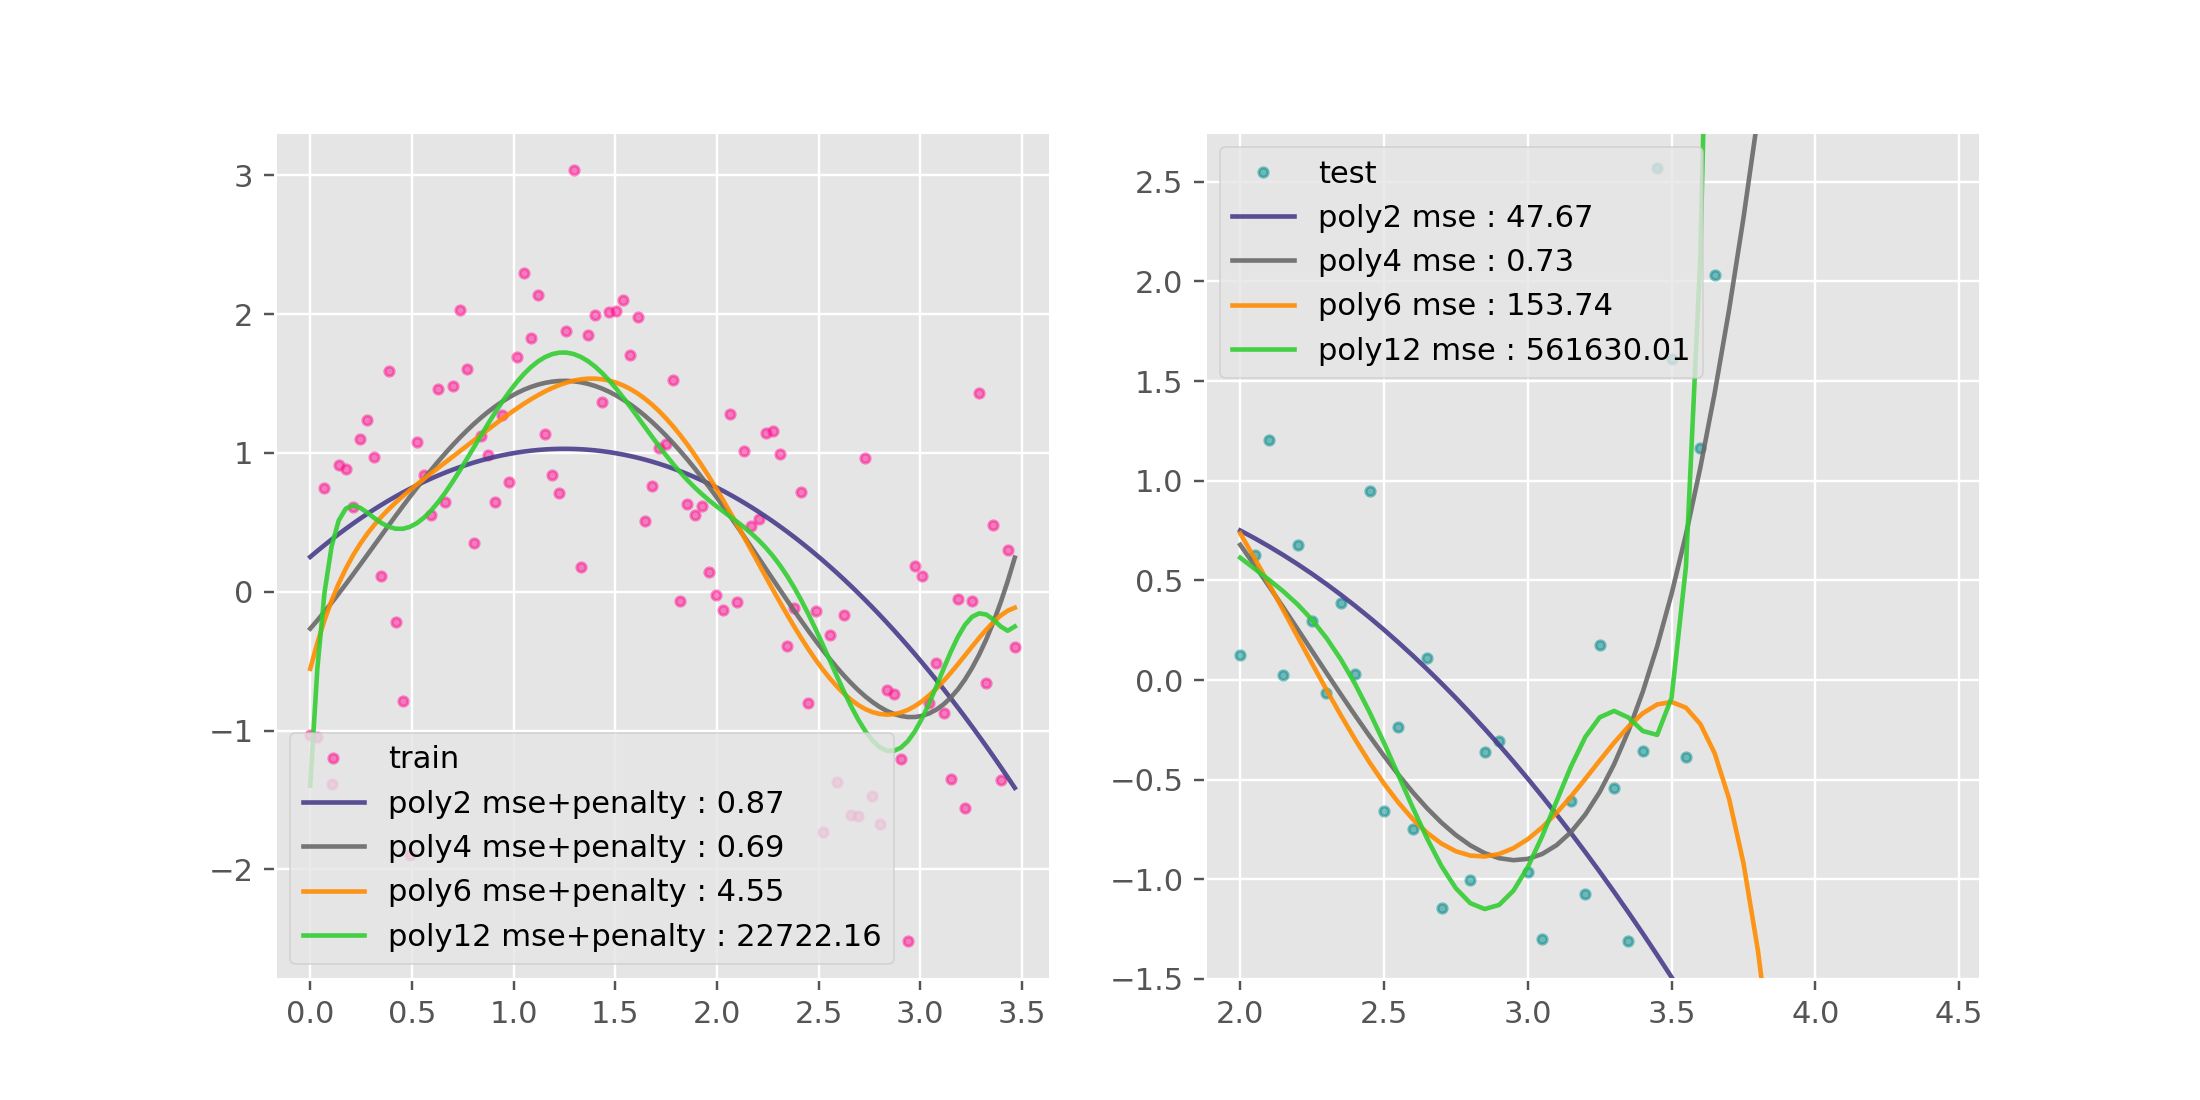
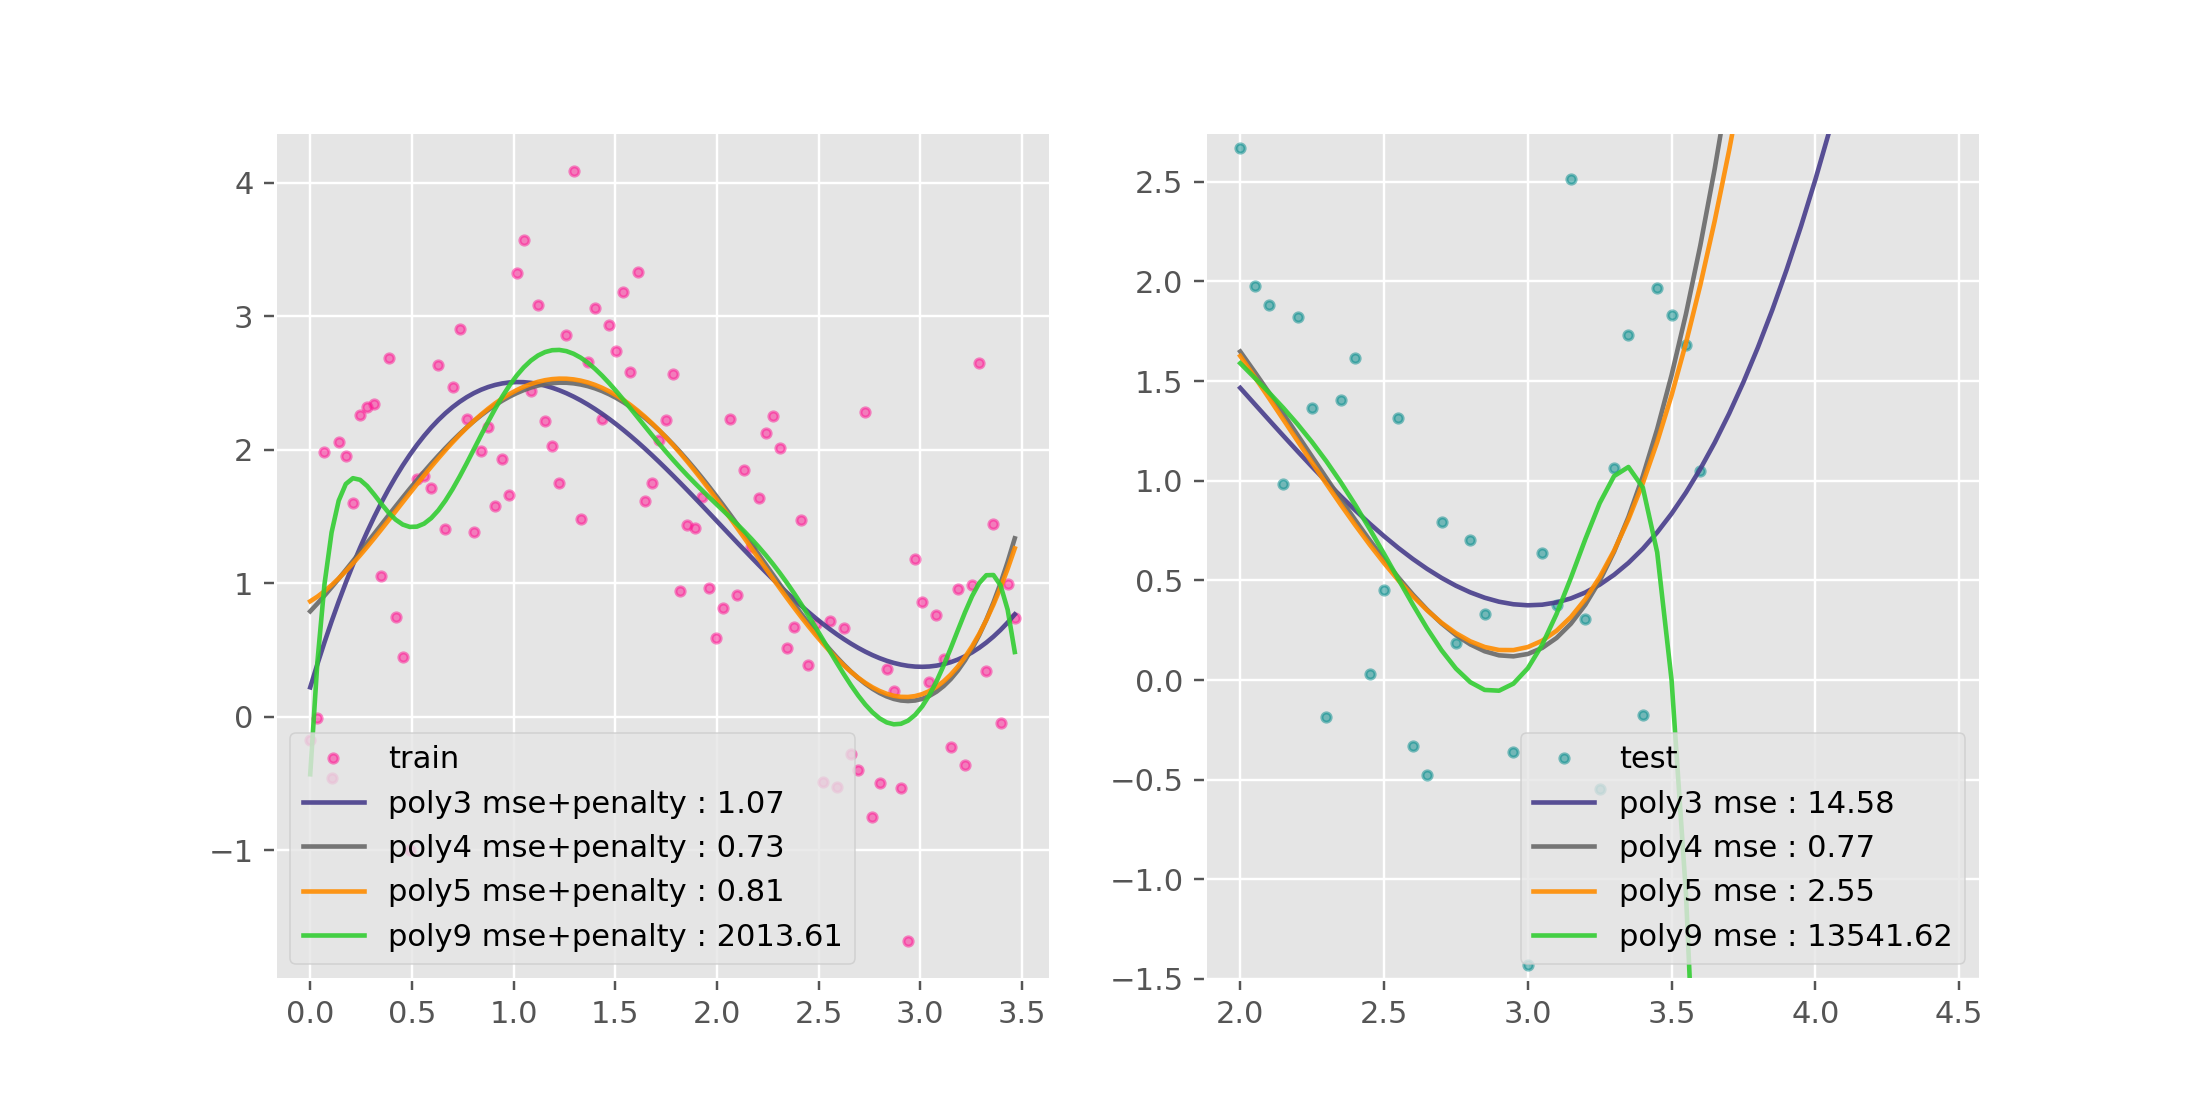
.

diff --git a/bias-variance/polynomial-fit.py b/bias-variance/polynomial-fit.py
@@ -22,11 +22,13 @@ warnings.simplefilter(action='ignore', category=FutureWarning)
 
 plt.style.use('ggplot')
 
+c_true = [0.3, -1.5, 1.2, 1.5, 0]
+
 x = np.linspace(0, 3.5, 100, endpoint=False)
-y = np.polyval([0.3, -1.5, 1.2, 1.5, 0], x)
+y = np.polyval(c_true, x)
 
 x_h = np.linspace(2, 4.5, 50, endpoint=False)
-y_h = np.polyval([0.3, -1.5, 1.2, 1.5, 0], x_h)
+y_h = np.polyval(c_true, x_h)
 
 fig, ax = plt.subplots(figsize=(8, 8))
 ax.plot(x, y, '.', color='deeppink', markeredgecolor=None,
@@ -39,8 +41,8 @@ ax.legend()
 fig.show()
 fig.savefig('./bias-variance/poly.png', dpi=220)
 
-y += np.random.normal(0, 0.7, len(y))
-y_h += np.random.normal(0, 0.7, len(y_h))
+y += np.random.normal(0, 0.7, len(y)) + np.random.normal(1, 0.2, len(y))
+y_h += np.random.normal(0, 0.7, len(y_h)) + np.random.normal(1, 0.2, len(y_h))
 
 fig, ax = plt.subplots(figsize=(8, 8))
 ax.plot(x, y, '.', color='deeppink', markeredgecolor=None,
@@ -54,7 +56,7 @@ fig.show()
 fig.savefig('./bias-variance/poly-w-gauss.png', dpi=220)
 
 # polynomial fitting
-poly = [2, 4, 6, 12]
+poly = [3, 4, 5, 9]
 col = ['darkslateblue', 'dimgray', 'darkorange', 'limegreen']
 
 fig, ax = plt.subplots(1, 2, figsize=(10, 5))
@@ -80,9 +82,6 @@ fig.show()
 fig.savefig('./bias-variance/polyfit.png', dpi=220)
 
 # bayesian view
-poly = [2, 4, 6, 12]
-col = ['darkslateblue', 'dimgray', 'darkorange', 'limegreen']
-
 fig, ax = plt.subplots(1, 2, figsize=(10, 5))
 axes = ax.ravel()
 axes[0].plot(x, y, '.', color='deeppink', markeredgecolor=None, alpha=0.5,
@@ -108,12 +107,12 @@ fig.show()
 fig.savefig('./bias-variance/polyfit-w-penalty.png', dpi=220)
 
 # committee
-bs = 200
-poly = [2, 4, 6, 12]
-col = ['darkslateblue', 'dimgray', 'darkorange', 'limegreen']
+n_boot = 200
+# poly = [3, 4, 5, 9]
+poly = [3]
 np.random.seed(2019)
 for p, c in zip(poly, col):
-    fig, ax = plt.subplots(1, 2, figsize=(10, 5))
+    fig, ax = plt.subplots(1, 2, figsize=(10, 7))
     axes = ax.ravel()
     axes[0].plot(x, y,
                  '.', color='deeppink', markeredgecolor=None, alpha=0.5,
@@ -122,17 +121,36 @@ for p, c in zip(poly, col):
                  '.', color='darkcyan', markeredgecolor=None, alpha=0.5,
                  label='test')
     y_ave_tr = np.zeros(len(x))
+    y_tr_df = pd.DataFrame({'y_train_true': np.polyval(c_true, x)})
     y_ave_te = np.zeros(len(x_h))
-    for _ in range(bs):
+    for b in range(n_boot):
         samp = np.random.choice(range(len(x)), int(0.5 * len(x)))
         samp = np.sort(samp)
         cc = np.polyfit(x[samp], y[samp], p)
         y_tr = np.polyval(cc, x[samp])
-        y_ave_tr += np.polyval(cc, x) / bs
+        y_ave_tr += np.polyval(cc, x) / n_boot
         y_te = np.polyval(cc, x_h)
-        y_ave_te += y_te / bs
+        y_tr_df['y_train_{}'.format(b)] = np.polyval(cc, x)
+        y_ave_te += y_te / n_boot
         axes[0].plot(x[samp], y_tr, '-', color=c, alpha=0.05)
         axes[1].plot(x_h, y_te, '-', color=c, alpha=0.05)
+
+    # loss = ((y_tr_df.iloc[:, 1:].values - y_tr_df[
+    #     'y_train_true'].values.reshape(-1, 1)) ** 2 / len(
+    #     x) / n_boot).sum().sum()
+    loss = ((y_tr_df.iloc[:, 1:].values - y.reshape(-1, 1)) ** 2 / len(
+        x) / n_boot).sum().sum()
+
+    bias2 = ((y_ave_tr - y_tr_df['y_train_true']) ** 2 / len(x)).sum()
+    variance = ((y_tr_df.iloc[:, 1:].values - y_ave_tr.reshape(-1, 1)) ** 2 /
+                len(x) / n_boot).sum().sum()
+    noise = ((y_tr_df['y_train_true'].values - y) ** 2 / len(x)).sum()
+
+    eq_str = 'LOSS = BIAS^2 + VARIANCE + NOISE' + \
+             '\n{:.3f} = {:.3f} + {:.3f}+ {:.3f}'.format(
+                 loss, bias2, variance, noise)
+    print(eq_str)
+
     axes[0].plot(x, y_ave_tr, '-', color=c, alpha=1)
     axes[1].plot(x_h, y_ave_te, '-', color=c, alpha=1)
     axes[0].set_ylim(-3, 3.5)
@@ -140,13 +158,13 @@ for p, c in zip(poly, col):
     axes[0].legend()
     axes[1].legend()
 
-    # TODO : bias and variance
-    axes[0].set_title(
-        'poly {} fit with bootstrap\nmse : {:.3f}'.format(
-            p, mean_squared_error(y, y_ave_tr)))
-    axes[1].set_title(
-        'poly {} fit with bootstrap\nmse : {:.3f}'.format(
-            p, mean_squared_error(y_h, y_ave_te)))
+    # TODO : bias and variance => train
+    axes[0].set_title('mse : {:.3f}\n{}'.format(
+        mean_squared_error(y, y_ave_tr), eq_str), fontsize=8)
+    axes[1].set_title('mse : {:.3f}'.format(
+        mean_squared_error(y_h, y_ave_te)), fontsize=10)
+    fig.suptitle('poly {} fit with bootstrap'.format(p),
+                 fontsize=15)
     fig.show()
     fig.savefig('./bias-variance/poly{}fit-w-bootstrap.png'.format(p),
                 dpi=220)
